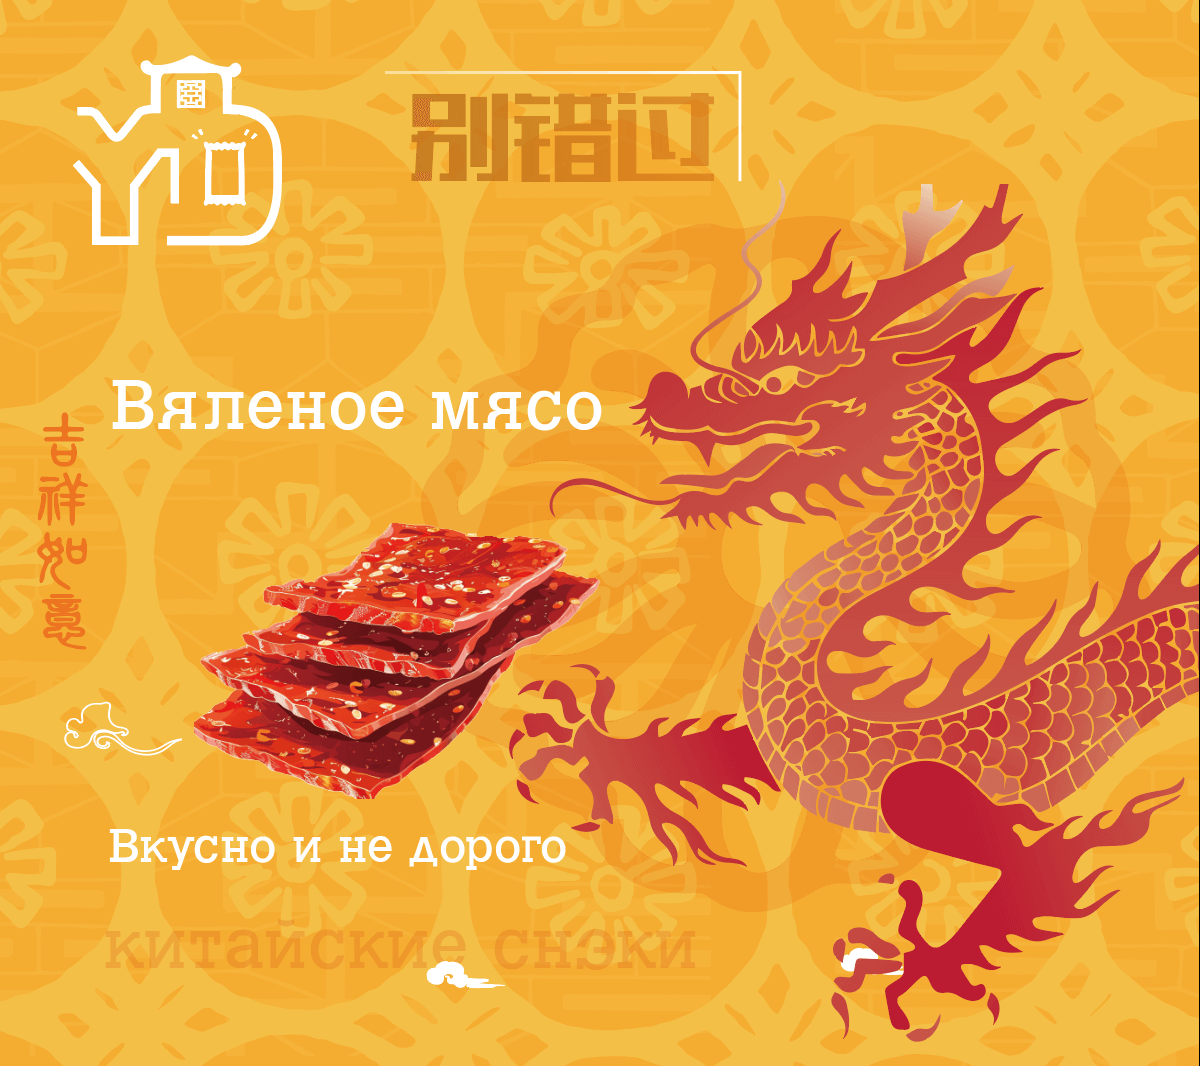
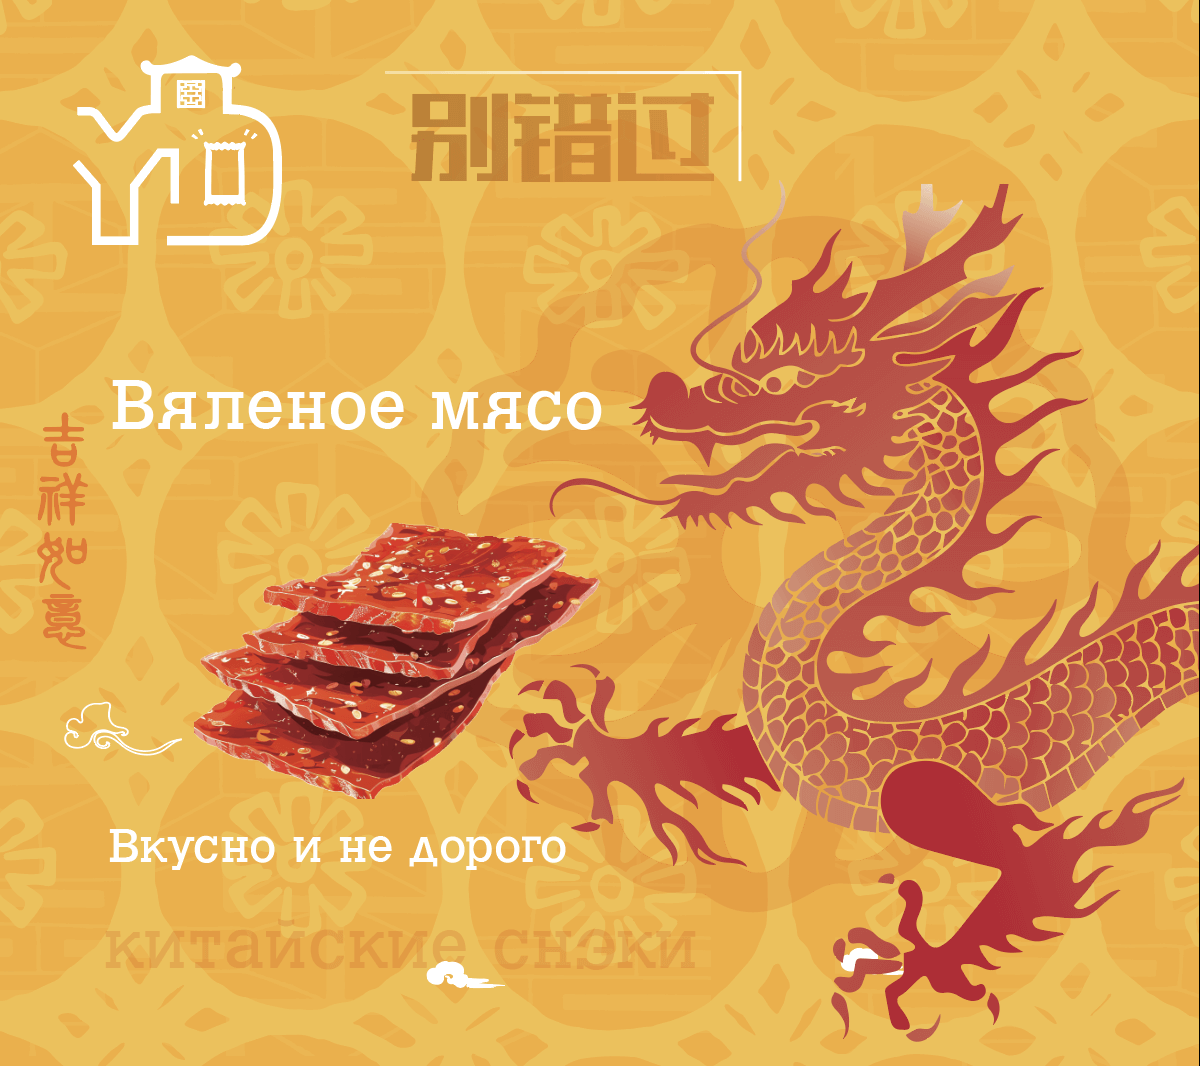
添加包装展示

diff --git a/index.html b/index.html
@@ -159,11 +159,11 @@
             console.log(imgs);
             for (let i = 0; i < imgs.length; i++) {
                 if (i % 6 === 0) {
-                    imgs[i].setAttribute("src", "images/box/front" + obj_id + ".jpg");
+                    imgs[i].setAttribute("src", "images/box/front" + obj_id + "_min.png");
                 } else if (i % 6 === 1) {
-                    imgs[i].setAttribute("src", "images/box/back" + obj_id + ".png");
+                    imgs[i].setAttribute("src", "images/box/back" + obj_id + "_min.png");
                 } else if (i % 6 === 2) {
-                    imgs[i].setAttribute("src", "images/box/over" + obj_id + ".jpg");
+                    imgs[i].setAttribute("src", "images/box/over" + obj_id + "_min.png");
                 } else if (i % 6 === 3) {
                     if (obj_id === 1) {
                         imgs[i].style.setProperty("background-color", "#F3BF46", "important");
@@ -179,12 +179,12 @@
                         imgs[i].style.setProperty("background-color", "#EBE5D3", "important");
                     }
                 } else if (i % 6 === 4) {
-                    imgs[i].setAttribute("src", "images/box/right" + obj_id + ".png");
+                    imgs[i].setAttribute("src", "images/box/right" + obj_id + "_min.png");
                 } else if (i % 6 === 5) {
-                    imgs[i].setAttribute("src", "images/box/left" + obj_id + ".jpg");
+                    imgs[i].setAttribute("src", "images/box/left" + obj_id + "_min.png");
                 }
             }
-            slide_sec1.style.setProperty("background-image", "url('./images/box/bg" + obj_id + ".png')", "important")
+            slide_sec1.style.setProperty("background-image", "url('./images/box/bg" + obj_id + "_min.png')", "important")
             slide_sec1.style.setProperty('visibility', 'visible', 'important');
         }
     </script>
@@ -194,7 +194,7 @@
 <div id="slide-sec">
     <!-- 后退按钮 -->
     <div class="back-btn">
-        <a href="javascript:void(0)" id="back-btn" onclick="backClick()"><img src="images/back-btn.png"></a>
+        <a href="javascript:void(0)" id="back-btn" onclick="backClick()"><img src="images/back-btn.png" alt=""></a>
     </div>
     <!--    &lt;!&ndash; 前进按钮 &ndash;&gt;-->
     <!--    <div class="front-btn">-->
@@ -220,18 +220,18 @@
     </script>
     <!-- 第一页 -->
     <section id="slide_sec1" onclick="box_click()">
-        <div id="bc1"><img src="images/box/front1.jpg" alt="前" class="tem"/></div>
-        <div id="bc2"><img src="images/box/back1.png" alt="后" class="tem"/></div>
-        <div id="bc3"><img src="images/box/over1.jpg" alt="上" class="tem"/></div>
+        <div id="bc1"><img src="images/box/front1_min.png" alt="前" class="tem"/></div>
+        <div id="bc2"><img src="images/box/back1_min.png" alt="后" class="tem"/></div>
+        <div id="bc3"><img src="images/box/over1_min.png" alt="上" class="tem"/></div>
         <div id="bc4" class="tem"></div>
-        <div id="bc5"><img src="images/box/right1.png" alt="右" class="tem"/></div>
-        <div id="bc6"><img src="images/box/left1.jpg" alt="左" class="tem"/></div>
-        <div><img src="images/box/front1.jpg" alt="" class="tem"/></div>
-        <div><img src="images/box/back1.png" alt="" class="tem"/></div>
-        <div><img src="images/box/over1.jpg" alt="" class="tem"/></div>
+        <div id="bc5"><img src="images/box/right1_min.png" alt="右" class="tem"/></div>
+        <div id="bc6"><img src="images/box/left1_min.png" alt="左" class="tem"/></div>
+        <div><img src="images/box/front1_min.png" alt="" class="tem"/></div>
+        <div><img src="images/box/back1_min.png" alt="" class="tem"/></div>
+        <div><img src="images/box/over1_min.png" alt="" class="tem"/></div>
         <div class="tem"></div>
-        <div><img src="images/box/right1.png" alt="" class="tem"/></div>
-        <div><img src="images/box/left1.jpg" alt="" class="tem"/></div>
+        <div><img src="images/box/right1_min.png" alt="" class="tem"/></div>
+        <div><img src="images/box/left1_min.png" alt="" class="tem"/></div>
     </section>
     <!-- 点击事件 -->
     <script>

diff --git a/css/index.css b/css/index.css
@@ -229,27 +229,27 @@ nav {
 
 /* 色彩来源：https://color.uisdc.com/ */
 .swiper .swiper-slide-1 {
-    background-image: url("../images/box/front1.jpg");
+    background-image: url("../images/box/front1_min.png");
 }
 
 .swiper .swiper-slide-2 {
-    background-image: url("../images/box/front2.jpg");
+    background-image: url("../images/box/front2_min.png");
 }
 
 .swiper .swiper-slide-3 {
-    background-image: url("../images/box/front3.jpg");
+    background-image: url("../images/box/front3_min.png");
 }
 
 .swiper .swiper-slide-4 {
-    background-image: url("../images/box/front4.jpg");
+    background-image: url("../images/box/front4_min.png");
 }
 
 .swiper .swiper-slide-5 {
-    background-image: url("../images/box/front5.jpg");
+    background-image: url("../images/box/front5_min.png");
 }
 
 .swiper .swiper-slide-6 {
-    background-image: url("../images/box/front6.jpg");
+    background-image: url("../images/box/front6_min.png");
 }
 
 /*##########详情页面########*/
@@ -263,7 +263,7 @@ nav {
     /* 让页面始终占浏览器总高 */
     height: 100vh;
     background-color: #ffffff;
-    background-image: url('../images/box/bg1.png');
+    background-image: url('../images/box/bg1_min.png');
     background-size: auto;
     /* 视距 增加盒子的立体感 */
     perspective: 1000px;
